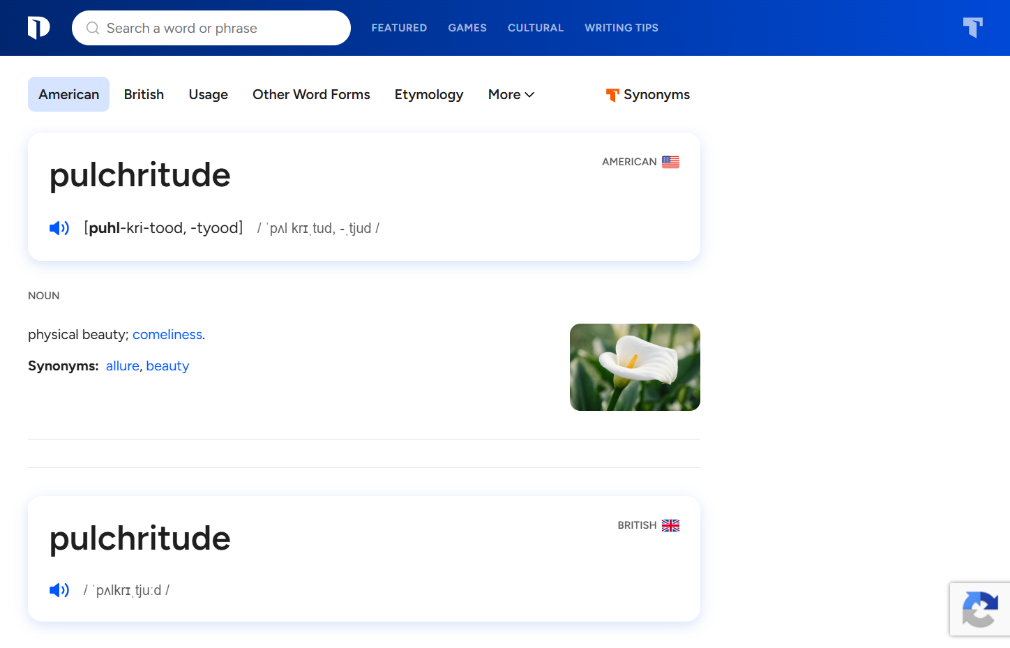
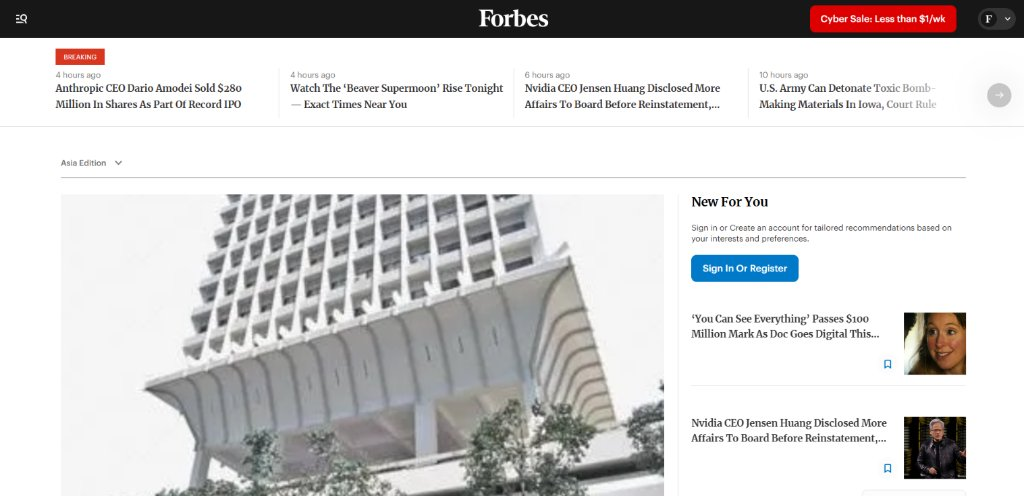
feat: replace safari comparison screenshots with Forbes ad-blocking images

diff --git a/website/src/components/Safari.tsx b/website/src/components/Safari.tsx
@@ -1,11 +1,11 @@
 import type { HTMLAttributes } from "react"
 
 const SAFARI_WIDTH = 1203
-const SAFARI_HEIGHT = 823
+const SAFARI_HEIGHT = 633
 const SCREEN_X = 1
 const SCREEN_Y = 52
 const SCREEN_WIDTH = 1200
-const SCREEN_HEIGHT = 770
+const SCREEN_HEIGHT = 581
 
 // Calculated percentages
 const LEFT_PCT = (SCREEN_X / SAFARI_WIDTH) * 100
@@ -145,7 +145,7 @@ export function Safari({
               fill="white"
             />
             <path
-              d="M1 52H1201V811C1201 817.075 1196.08 822 1190 822H12C5.92486 822 1 817.075 1 811V52Z"
+              d="M1 52H1201V621C1201 627.075 1196.08 632 1190 632H12C5.92486 632 1 627.075 1 621V52Z"
               fill="black"
             />
           </mask>
@@ -156,7 +156,7 @@ export function Safari({
 
           <clipPath id="roundedBottom">
             <path
-              d="M1 52H1201V811C1201 817.075 1196.08 822 1190 822H12C5.92486 822 1 817.075 1 811V52Z"
+              d="M1 52H1201V621C1201 627.075 1196.08 632 1190 632H12C5.92486 632 1 627.075 1 621V52Z"
               fill="white"
             />
           </clipPath>
@@ -167,7 +167,7 @@ export function Safari({
           mask={hasMedia ? "url(#safariPunch)" : undefined}
         >
           <path
-            d="M0 52H1202V811C1202 817.627 1196.63 823 1190 823H12C5.37258 823 0 817.627 0 811V52Z"
+            d="M0 52H1202V621C1202 627.627 1196.63 633 1190 633H12C5.37258 633 0 627.627 0 621V52Z"
             fill="#E5E5E5"
             className="fill-[#E5E5E5] dark:fill-[#404040]"
           />

diff --git a/website/src/registry/magicui/safari.tsx b/website/src/registry/magicui/safari.tsx
@@ -1,11 +1,11 @@
 import type { HTMLAttributes } from "react"
 
 const SAFARI_WIDTH = 1203
-const SAFARI_HEIGHT = 823
+const SAFARI_HEIGHT = 633
 const SCREEN_X = 1
 const SCREEN_Y = 52
 const SCREEN_WIDTH = 1200
-const SCREEN_HEIGHT = 770
+const SCREEN_HEIGHT = 581
 
 // Calculated percentages
 const LEFT_PCT = (SCREEN_X / SAFARI_WIDTH) * 100
@@ -145,7 +145,7 @@ export function Safari({
               fill="white"
             />
             <path
-              d="M1 52H1201V811C1201 817.075 1196.08 822 1190 822H12C5.92486 822 1 817.075 1 811V52Z"
+              d="M1 52H1201V621C1201 627.075 1196.08 632 1190 632H12C5.92486 632 1 627.075 1 621V52Z"
               fill="black"
             />
           </mask>
@@ -156,7 +156,7 @@ export function Safari({
 
           <clipPath id="roundedBottom">
             <path
-              d="M1 52H1201V811C1201 817.075 1196.08 822 1190 822H12C5.92486 822 1 817.075 1 811V52Z"
+              d="M1 52H1201V621C1201 627.075 1196.08 632 1190 632H12C5.92486 632 1 627.075 1 621V52Z"
               fill="white"
             />
           </clipPath>
@@ -167,7 +167,7 @@ export function Safari({
           mask={hasMedia ? "url(#safariPunch)" : undefined}
         >
           <path
-            d="M0 52H1202V811C1202 817.627 1196.63 823 1190 823H12C5.37258 823 0 817.627 0 811V52Z"
+            d="M0 52H1202V621C1202 627.627 1196.63 633 1190 633H12C5.37258 633 0 627.627 0 621V52Z"
             fill="#E5E5E5"
             className="fill-[#E5E5E5] dark:fill-[#404040]"
           />

diff --git a/website/src/components/SafariDemo.tsx b/website/src/components/SafariDemo.tsx
@@ -91,7 +91,7 @@ const MacOSCompareHandle: React.FC = () => {
 };
 
 export function SafariDemo({
-  url = 'dictionary.com',
+  url = 'forbes.com',
   itemOne,
   itemTwo,
 }: SafariDemoProps) {
@@ -99,7 +99,7 @@ export function SafariDemo({
     <div
       style={{
         width: '100%',
-        maxWidth: 'min(920px, 90vw, calc((100vh - 120px) * 1.4617))',
+        maxWidth: 'min(960px, 92vw, calc((100vh - 120px) * 1.90))',
         margin: '0 auto 60px',
         padding: '0 16px',
         display: 'flex',
